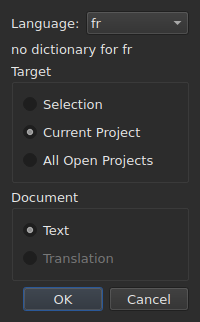
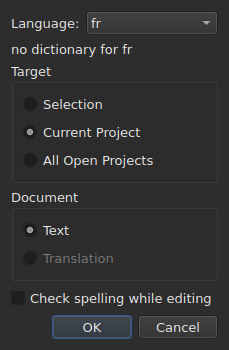
docs(doc): orthographe au fil de la frappe, GUI-SPELL-04 (#525)
Encart de D6, écarts avec Gaupol, exigence au registre, section du manuel
avec ses captures et la clé spell-check.inline.

diff --git a/docs/specs/12-correction.md b/docs/specs/12-correction.md
@@ -393,6 +393,39 @@ ligne de commande.
 > ignorer, ajouter, remplacer, tout remplacer et joindre sont tenus sur le
 > double `WordListSpellProvider`, jamais sur les dictionnaires de la machine.
 
+> **Précisé par [#525](https://github.com/Guyot-Bertrand/sub-edit/issues/525).**
+> **L'orthographe au fil de la frappe** — le `spell_check.inline` de Gaupol. **Le
+> réglage** est `spell-check.inline` (`SpellCheckSettings::inlineCheck`), **faux
+> par défaut, comme Gaupol**, lu et écrit comme ses trois voisins ; une valeur
+> illisible rend le défaut et un diagnostic. **La case** `Check spelling while
+> editing` est dans `Spell-Check Settings…` — Gaupol la range dans ses
+> préférences, mais la langue qu'elle utilise est celle de cette fenêtre, et
+> `subedit` n'a pas de fenêtre de préférences (voir le tableau des écarts).
+> **Quand elle est cochée et qu'un dictionnaire existe** pour la langue
+> réglée, un mot inconnu est **souligné en ondulé rouge pendant qu'on tape**, dans
+> l'éditeur des deux colonnes de texte, `Text` et `Translation` ; **sans
+> dictionnaire, ou sans fournisseur, l'éditeur se tait**, sans échec.
+>
+> **Trois pièces.** Au noyau, `misspelledSpellRanges` (`spell_ranges.hpp`, sans
+> Qt) rend les intervalles, en octets d'UTF-8, des mots que `SpellChecker::check`
+> refuse avec leur caractère précédent et suivant : **la règle de
+> `SpellCheckNavigator::next`**, pour que le soulignement et le parcours de
+> `Check Spelling…` s'accordent — un test le vérifie en les faisant marcher sur le
+> même texte. Dans l'interface, `SpellHighlighter` (un `QSyntaxHighlighter`)
+> convertit ces octets en unités UTF-16 et pose `SpellCheckUnderline` ; il reprend
+> chaque bloc qui change, donc le soulignement suit la frappe. **Le délégué ne
+> résout ni chemin ni langue** (ADR 0022) : `TextDelegate` reçoit de la fenêtre
+> une source de correcteur (`SpellCheckerSource`), qu'il interroge à chaque
+> éditeur ouvert. **La fenêtre** ouvre le correcteur de la langue réglée
+> (`resolvedLanguage`, `openSpellChecker`, la liste de remplacements en lecture),
+> le renouvelle quand le fournisseur ou les réglages changent, et le rend
+> partagé : un éditeur déjà ouvert garde le sien jusqu'à sa fermeture.
+>
+> **Ce que la case ne fait pas** : elle ne s'applique qu'aux éditeurs ouverts
+> après elle, et le menu contextuel de l'éditeur ne propose pas de suggestions.
+> **GUI-SPELL-04 est implémentée** : noyau, réglages, fenêtre de réglages, éditeur
+> et fenêtre de bout en bout, sur le double `WordListSpellProvider`.
+
 ## D7 — Les mentions de la phase 4 : le balayage reste, le moteur prend le reste
 
 **Le balayage écrit à la main garde les crochets et les parenthèses.** L'ADR
@@ -723,8 +756,9 @@ par désigner une phase déjà passée.
   phase 15, avec le reste de l'interface.
 - **La vérification orthographique au fil de la frappe** — Gaupol l'offre dans
   sa cellule d'édition (`spell_check.inline`). Elle demande un surlignage dans
-  le délégué de la table, que rien n'a encore : **renvoyée à la relecture de fin
-  de phase**, qui dira si elle devient une issue.
+  le délégué de la table, que rien n'avait : **renvoyée à la relecture de fin
+  de phase**, qui l'a retenue — **livrée par
+  [#525](https://github.com/Guyot-Bertrand/sub-edit/issues/525)**, voir D6.
 - **Un éditeur de motifs** — Gaupol n'en a pas ; on dépose un fichier.
 - **La longueur des lignes affichée dans les cellules** — la règle de Gaupol
   (`gaupol/ruler.py`, sa marge) ; elle emprunterait la mesure de D5, mais c'est
@@ -777,10 +811,14 @@ par désigner une phase déjà passée.
 | la jonction et la scission comparent le texte final à celui du **dernier mot mal orthographié atteint** : une jonction suivie d'un mot laissé en l'état n'est **jamais enregistrée** | comparent au **texte de départ**, espaces réduites ; le cas est un test | D8, #508 : écart voulu |
 | fermer `Check Spelling…` au milieu **perd le texte courant** | **applique** les textes quittés **et** les gestes déjà posés sur le texte courant | D6, #509 |
 | la taille de la fenêtre de vérification est **retenue** (`spell_check.size`) | **elle ne l'est pas** | #509 le dit, sans raison ; inscrit ici faute de l'avoir écrite |
+| *ajoutés par #525* | | |
+| la case du soulignement à la frappe est dans les **préférences** | dans **`Spell-Check Settings…`**, à côté de la langue | `subedit` n'a pas de fenêtre de préférences ; la langue du soulignement est celle de cette fenêtre |
+| le soulignement passe par le vérificateur d'Enchant **seul** : ni les cas de l'anglais familier, ni la liste de remplacements | il passe par **`SpellChecker::check`**, les cas de l'anglais compris | le soulignement et `Check Spelling…` s'accordent sur les mêmes mots — D6, #525 |
+| le menu contextuel de l'éditeur **propose des suggestions** | **il n'en propose pas** | lacune, non un choix : #525 livre le soulignement, non ses gestes |
 
 ## Exigences
 
-**Douze, toutes `prévues`** — le registre s'alimente en début d'issue.
+**Treize** — douze au cadrage, toutes `prévues`, et `GUI-SPELL-04`, née de [#525](https://github.com/Guyot-Bertrand/sub-edit/issues/525) ; le registre s'alimente en début d'issue.
 
 > **Corrigé en relecture de fin de phase.** **Douze, toutes `implémentées`, et chacune citée par au moins un
 > test** — un tag Catch2, que `check-requirements.sh` confronte au registre : `GUI-CORRECT-01` par deux cas,
@@ -802,6 +840,10 @@ par désigner une phase déjà passée.
 | `GUI-SPELL-01` | la vérification parcourt les mots inconnus : ignorer, tout ignorer, ajouter au dictionnaire, remplacer, tout remplacer, joindre au précédent ou au suivant |
 | `GUI-SPELL-02` | sans dictionnaire pour la langue choisie, les fonctions du correcteur sont grisées et disent pourquoi |
 | `GUI-SPELL-03` | l'assistant joint et scinde des mots selon le correcteur |
+| `GUI-SPELL-04` | un mot inconnu est souligné pendant qu'on le tape dans l'éditeur d'une cellule de texte, quand le réglage est vrai et qu'un dictionnaire existe ; sans dictionnaire, rien n'est souligné et rien n'échoue |
+
+> **Ajouté par #525.** `GUI-SPELL-04` porte le total à **treize** ; elle est `implémentée`, citée par
+> dix cas : le noyau (trois), la fenêtre de réglages (un), l'éditeur de la cellule (quatre) et la fenêtre (cinq).
 
 **Le noyau n'a pas d'exigence**, par la règle du registre : les cas de #494 et
 #495 le tiennent, et ce sont eux que ses tests liront.
@@ -851,7 +893,7 @@ s'il est retenu, et l'issue s'inscrit dans la colonne de droite.
 
 | Axe | Ce que la relecture a vu | Issue |
 | :-- | :----------------------- | :---- |
-| la vérification au fil de la frappe | renvoi de la spec sans destinataire : il demande un surlignage dans le délégué de la table, que rien n'a | [#525](https://github.com/Guyot-Bertrand/sub-edit/issues/525) |
+| la vérification au fil de la frappe | renvoi de la spec sans destinataire : il demande un surlignage dans le délégué de la table, que rien n'a | [#525](https://github.com/Guyot-Bertrand/sub-edit/issues/525), **livrée** (D6) |
 | la longueur des lignes dans les cellules | renvoi de la spec sans destinataire : une fonction d'édition qui emprunterait la mesure de D5 | [#526](https://github.com/Guyot-Bertrand/sub-edit/issues/526) |
 | crochets et parenthèses, deux cases pour un balayage | l'assistant les présente comme deux motifs de Gaupol ; au noyau, l'une ou l'autre lance le balayage qui retire les deux. **Et la page `Mentions` liste en plus, avec les autres motifs de `Latn`, deux cases du même nom** — `hearing_impaired_correction.cpp` (`isScanOnly`) les écarte par leur nom, si bien qu'on les coche sans effet (lu, non exécuté) | [#528](https://github.com/Guyot-Bertrand/sub-edit/issues/528) pour les cases sans effet ; la distinction crochets / parenthèses reste écartée : aucune issue ne la demande |
 | le cache de longueurs | `CachedLineMeasure` n'est branché nulle part dans le programme livré (`correction_controller.cpp`) ; le banc n'a pas la version sans cache en *ems* | [#527](https://github.com/Guyot-Bertrand/sub-edit/issues/527) |

diff --git a/docs/manual/subedit-gui/verifier-orthographe.md b/docs/manual/subedit-gui/verifier-orthographe.md
@@ -2,7 +2,7 @@
 
 `Tools ▸ Check Spelling…` parcourt les mots que le dictionnaire ne connaît pas,
 un à la fois, sur le modèle du correcteur de Gaupol. Elle a une compagne,
-`Tools ▸ Spell-Check Settings…`, qui règle la langue, la cible et le document.
+`Tools ▸ Spell-Check Settings…`, qui règle la langue, la cible et le document, et le soulignement à la frappe.
 Les deux s'appuient sur les dictionnaires du système, par Enchant.
 
 Le libellé de la première s'écrit `Chec&k Spelling…` : `C` est déjà
@@ -26,6 +26,7 @@ phrase sous la langue dit pourquoi.](captures/orthographe-reglages.png)
 | `Language` | les codes de langue que le système propose, et celui déjà choisi | la langue du système, si elle y est |
 | `Target` | `Selection`, `Current Project`, `All Open Projects` | `Current Project` |
 | `Document` | `Text`, `Translation` | `Text` |
+| `Check spelling while editing` | une case à cocher, voir [Souligner en tapant](#souligner-en-tapant) | décochée |
 
 `Selection` est éteinte sans ligne choisie dans l'onglet montré ; `Translation`
 est éteinte tant qu'aucun projet ouvert ne porte de traduction. Un réglage
@@ -39,7 +40,7 @@ elle qui permet de sortir d'une langue qui n'en a pas. La langue dont aucun
 dictionnaire n'existe reste modifiable et se montre dans la liste, avec, sous
 elle, la phrase `no dictionary for` suivi de son code.
 
-**Les trois réglages se retiennent** d'une session à l'autre, dans le fichier
+**Les quatre réglages se retiennent** d'une session à l'autre, dans le fichier
 de réglages de `subedit` — voir [Les préférences](preferences.md) pour son
 emplacement :
 
@@ -48,10 +49,35 @@ emplacement :
 | `spell-check.language` | un code de langue, tel que `fr_FR` ; vide : la langue du système | vide |
 | `spell-check.target` | `selection`, `current-project`, `all-projects` | `current-project` |
 | `spell-check.document` | `main`, `translation` | `main` |
+| `spell-check.inline` | `true` ou `false` — souligner les mots inconnus dans l'éditeur d'une cellule | `false` |
 
 Une valeur que la clé n'accepte pas est ignorée, le défaut s'applique, et l'option
 est nommée sur la sortie d'erreur à l'ouverture de la fenêtre — voir
 [Les préférences](preferences.md#ce-qui-arrive-quand-le-fichier-ne-dit-pas-ce-quon-attend).
+
+## Souligner en tapant
+
+![L'éditeur de la cellule de texte, le mot mal tapé souligné en ondulé
+rouge.](captures/edition-orthographe.png)
+
+![Le même éditeur sous la palette sombre.](captures/edition-orthographe-sombre.png)
+
+La case `Check spelling while editing` de `Spell-Check Settings…` fait souligner,
+**en ondulé rouge et pendant qu'on tape**, chaque mot inconnu dans l'éditeur d'une
+cellule de texte — celui de la colonne `Text` comme celui de la colonne
+`Translation`. Le soulignement suit la frappe : il apparaît, se déplace et
+disparaît avec le mot. **Elle est décochée par défaut**, comme dans Gaupol : sans
+elle, rien ne change dans l'éditeur.
+
+**La langue est celle de `Language:`**, dans la même fenêtre, et les mots inconnus
+sont ceux que `Check Spelling…` trouverait : mêmes cas de l'anglais familier
+(`goin'`, `we'd`, `1st`), même découpage en mots. Un mot souligné ne se corrige pas
+par un menu : la case ne fait que le montrer.
+
+**Sans dictionnaire pour la langue réglée, l'éditeur se tait** : rien n'est
+souligné et rien n'échoue, et la phrase `no dictionary for` de la fenêtre dit
+pourquoi. La case s'applique aux éditeurs ouverts après elle ; un éditeur déjà
+ouvert garde ce qu'il avait.
 
 ## Le parcours
 

diff --git a/docs/manual/subedit-gui/preferences.md b/docs/manual/subedit-gui/preferences.md
@@ -27,8 +27,8 @@ non. Voir [`Adjust Durations…`](operations.md#adjust-durations).
 octets. Voir [le fichier](#le-fichier).
 
 **Et ce que l'assistant `Correct Texts…` et `Spell-Check Settings…` règlent** : les
-tâches cochées et leur code, les cases de motifs, les réglages du découpage, la langue
-et la cible de la vérification. Voir [Correct Texts…](correct-texts.md) et
+tâches cochées et leur code, les cases de motifs, les réglages du découpage, la langue,
+la cible de la vérification et le soulignement à la frappe. Voir [Correct Texts…](correct-texts.md) et
 [Check Spelling…](verifier-orthographe.md#spell-check-settings). **La cible et le
 document de `Correct Texts…` ne sont pas retenus.**
 
@@ -91,6 +91,7 @@ qui le pose est justement celle qui ne va pas.
 | `spell-check.language` | un code de locale, tel que `fr_FR` ; vide : la langue du système | vide |
 | `spell-check.target` | `selection`, `current-project` ou `all-projects` | `current-project` |
 | `spell-check.document` | `main` ou `translation` | `main` |
+| `spell-check.inline` | `true` ou `false` — souligner les mots inconnus pendant qu'on tape dans l'éditeur d'une cellule | `false` |
 
 **Le fichier accepte plus large que le dialogue.** Le lecteur prend toute vitesse
 strictement positive et toute durée non négative ; le dialogue d'`Adjust

diff --git a/docs/manual/subedit-gui/operations.md b/docs/manual/subedit-gui/operations.md
@@ -20,7 +20,7 @@ seize s'annule d'un `Ctrl+Z` ; l'analyse ne modifie rien. `Check Spelling…` s'
 | `Remove Hearing-Impaired Mentions…` | oui, sans réglage | retire les mentions pour malentendants |
 | `Correct Texts…` | oui, un assistant à plusieurs pages | propose des corrections — mentions, jonction et scission de mots, erreurs courantes, majuscules, découpage — et les applique une fois acceptées, voir [Correct Texts…](correct-texts.md) |
 | `Check Spelling…` | oui, un parcours mot à mot | parcourt les mots inconnus du dictionnaire et applique ce qu'on a corrigé, voir [Check Spelling…](verifier-orthographe.md) |
-| `Spell-Check Settings…` | oui | choisit la langue, la cible et le document de la vérification, voir [Check Spelling…](verifier-orthographe.md#spell-check-settings) |
+| `Spell-Check Settings…` | oui | choisit la langue, la cible et le document de la vérification, et le soulignement à la frappe, voir [Check Spelling…](verifier-orthographe.md#spell-check-settings) |
 | `Snap to Frame Rate…` | oui | repose chaque horodatage sur l'image la plus proche |
 | `Shift Whole File onto Grid (…)` | **non** | ramène tout le fichier sur sa grille |
 | `Frame Rate Analysis…` | oui, sans réglage | **ne modifie rien** — voir [La grille d'images](grille.md) |

diff --git a/docs/exigences.md b/docs/exigences.md
@@ -208,3 +208,4 @@ plus rien.
 | `GUI-SPELL-01` | la vérification parcourt les mots inconnus : ignorer, tout ignorer, ajouter au dictionnaire, remplacer, tout remplacer, joindre au précédent ou au suivant | 12 | implémentée |
 | `GUI-SPELL-02` | sans dictionnaire pour la langue choisie, les fonctions du correcteur sont grisées et disent pourquoi | 12 | implémentée |
 | `GUI-SPELL-03` | l'assistant joint et scinde des mots selon le correcteur | 12 | implémentée |
+| `GUI-SPELL-04` | un mot inconnu est souligné pendant qu'on le tape dans l'éditeur d'une cellule de texte, quand le réglage est vrai et qu'un dictionnaire existe ; sans dictionnaire, rien n'est souligné et rien n'échoue | 12 | implémentée |
